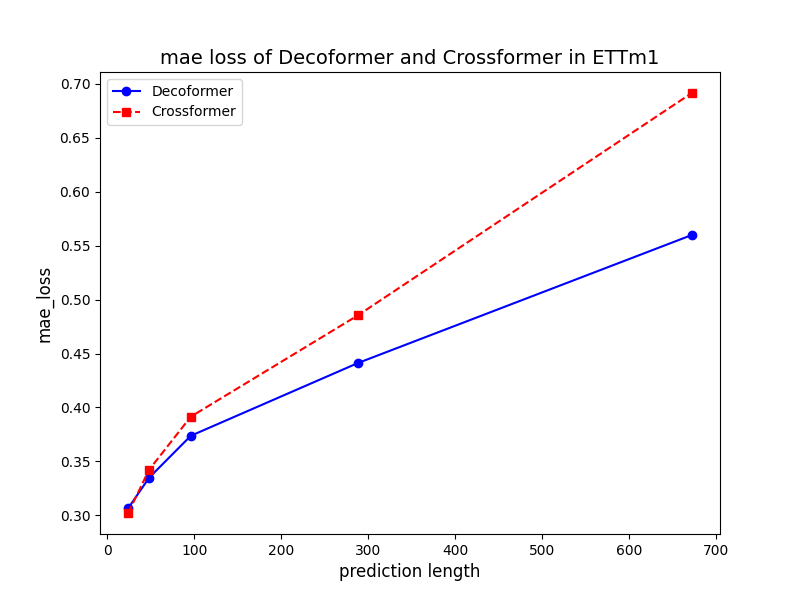
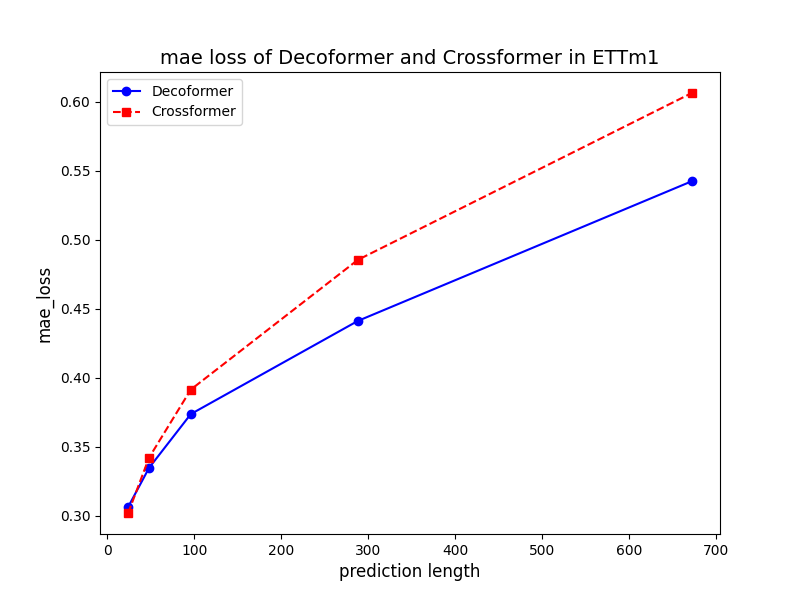
fix: repeat experiment on EETm1_inlen_96_outlen672 Crossformer

diff --git a/visualization/visual.py b/visualization/visual.py
@@ -19,10 +19,10 @@ deco_h1_mse = [0.303795725107193, 0.3452039062976837, 0.4509919285774231, 0.5559
 deco_h1_mae = [0.3652786910533905, 0.39096730947494507, 0.46108725666999817, 0.5284407734870911, 0.5767600536346436]
 cross_h1_mse = [0.297194242477417, 0.35698017477989197, 0.47376549243927, 0.5866467952728271, 0.6980878114700317]
 cross_h1_mae = [0.3498874008655548, 0.40031903982162476, 0.47370079159736633, 0.5507002472877502, 0.6360467076301575]
-deco_m1_mse = [0.23721501231193542, 0.27673354744911194, 0.3329356610774994, 0.4212680160999298, 0.5891537070274353]
-deco_m1_mae = [0.30652469396591187, 0.33476588129997253, 0.37372252345085144, 0.441145122051239, 0.5599108934402466]
-cross_m1_mse = [0.2289648950099945, 0.2758387625217438, 0.3539612591266632, 0.47414496541023254, 0.9110997915267944]
-cross_m1_mae = [0.3021090626716614, 0.3421657979488373, 0.3914526104927063, 0.4853478670120239, 0.6916109919548035]
+deco_m1_mse = [0.23721501231193542, 0.27673354744911194, 0.3329356610774994, 0.4212680160999298, 0.5689398646354675]
+deco_m1_mae = [0.30652469396591187, 0.33476588129997253, 0.37372252345085144, 0.441145122051239, 0.5422918200492859]
+cross_m1_mse = [0.2289648950099945, 0.2758387625217438, 0.3539612591266632, 0.47414496541023254, 0.665247917175293]
+cross_m1_mae = [0.3021090626716614, 0.3421657979488373, 0.3914526104927063, 0.4853478670120239, 0.6061616539955139]
 
 visual("ETTh1", x_h1, deco_h1_mse, cross_h1_mse, "mse")
 visual("ETTh1", x_h1, deco_h1_mae, cross_h1_mae, "mae")

diff --git a/src/utils/tools.py b/src/utils/tools.py
@@ -17,7 +17,7 @@ def adjust_learning_rate(optimizer, epoch, args):
         lr = lr_adjust[epoch]
         for param_group in optimizer.param_groups:
             param_group['lr'] = lr
-        print('Updating learning rate to {}'.format(lr))
+        #print('Updating learning rate to {}'.format(lr))
 
 class EarlyStopping:
     def __init__(self, patience=7, verbose=False, delta=0):
@@ -36,7 +36,7 @@ class EarlyStopping:
             self.save_checkpoint(val_loss, model, path)
         elif score < self.best_score + self.delta:
             self.counter += 1
-            print(f'EarlyStopping counter: {self.counter} out of {self.patience}')
+            #print(f'EarlyStopping counter: {self.counter} out of {self.patience}')
             if self.counter >= self.patience:
                 self.early_stop = True
         else:
@@ -45,8 +45,8 @@ class EarlyStopping:
             self.counter = 0
 
     def save_checkpoint(self, val_loss, model, path):
-        if self.verbose:
-            print(f'Validation loss decreased ({self.val_loss_min:.6f} --> {val_loss:.6f}).  Saving model ...')
+        #if self.verbose:
+            #print(f'Validation loss decreased ({self.val_loss_min:.6f} --> {val_loss:.6f}).  Saving model ...')
         torch.save(model.state_dict(), path+'/'+'checkpoint.pth')
         self.val_loss_min = val_loss
 
